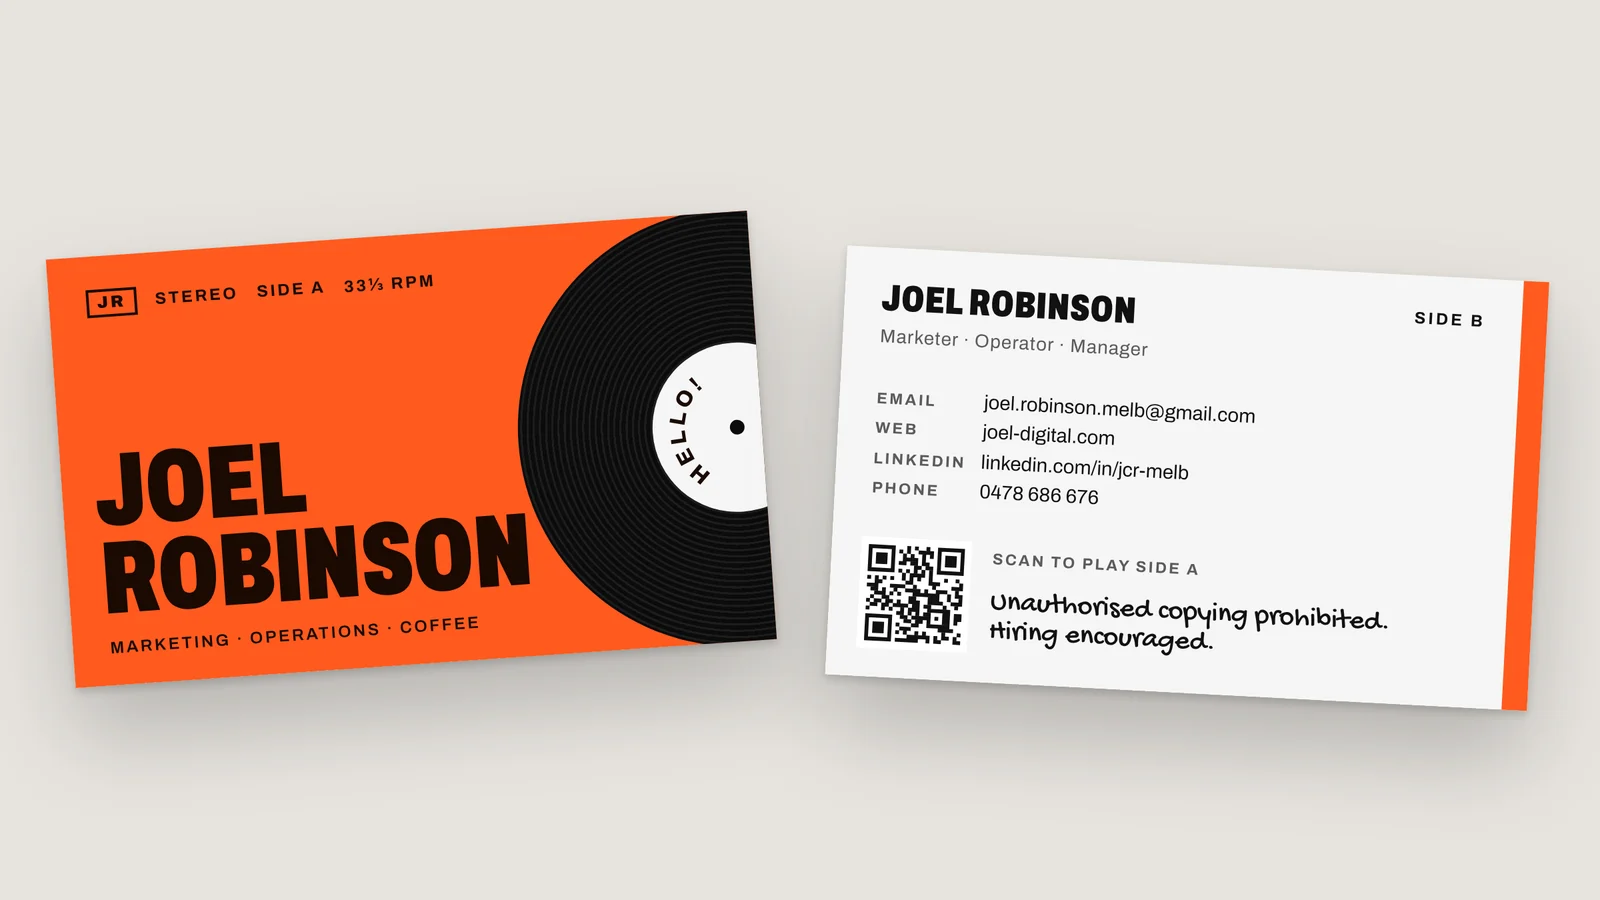
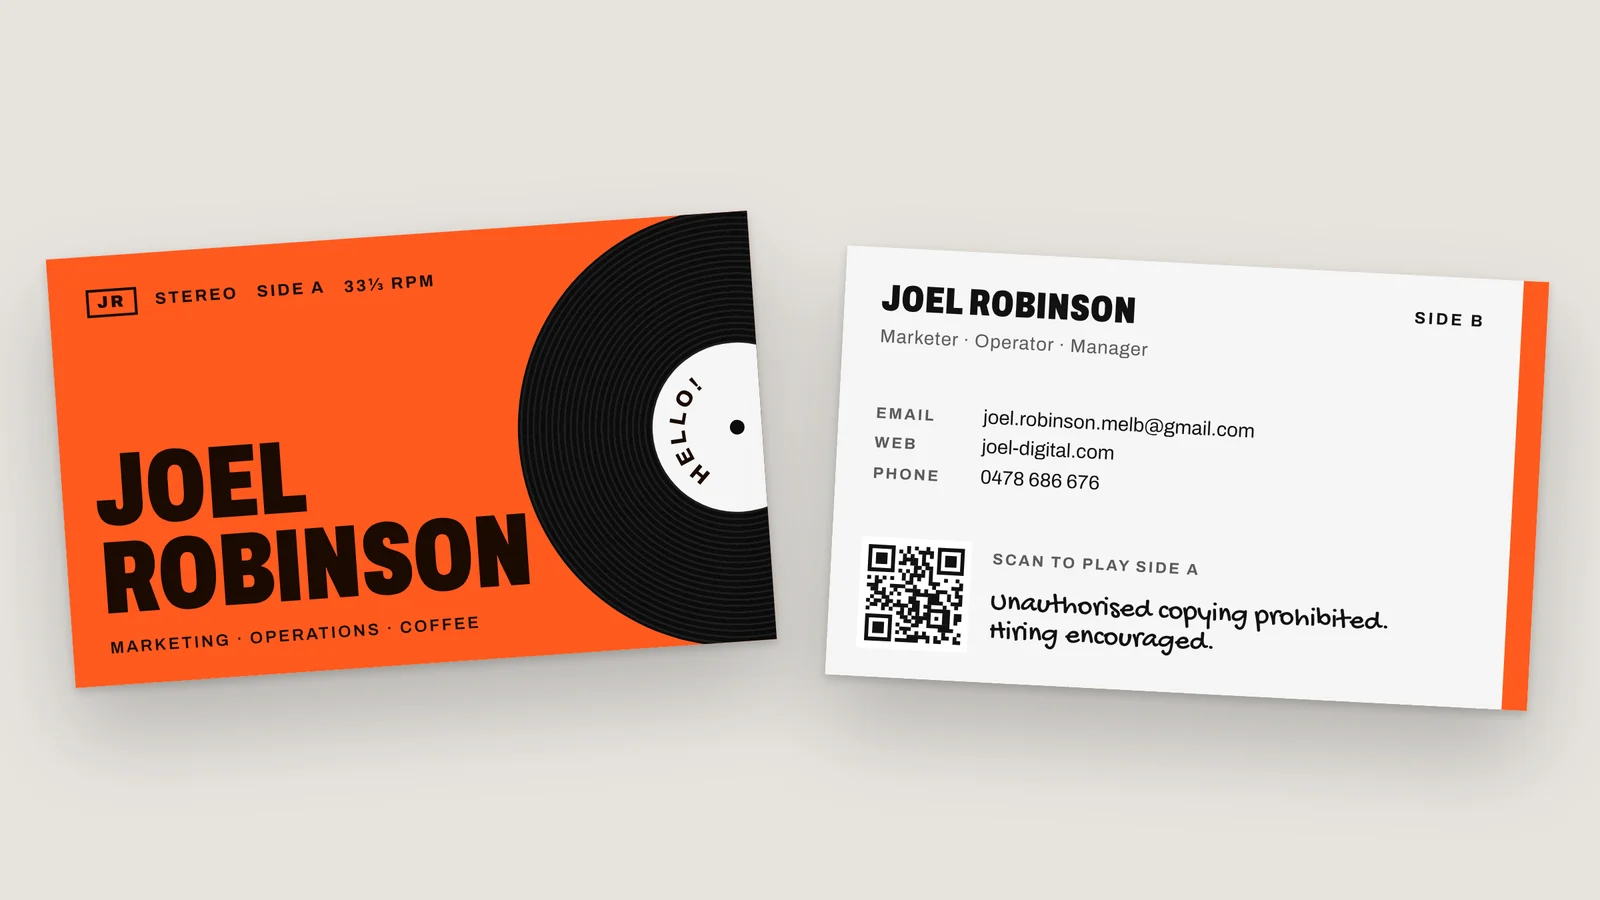
Business card: remove LinkedIn from the back
Claude-Session: https://claude.ai/code/session_01Vb6tQfnCk3mJvFcTo4MD6P

Changed region(s): [[0.5312, 0.4356, 0.7812, 0.56]]

diff --git a/index.html b/index.html
@@ -403,7 +403,7 @@
           <p>I designed both sides at true print size, 90 × 55 mm, using this site's orange, its condensed Archivo type and its handwritten voice.</p>
           <ul>
             <li><b>Side A</b> is the sleeve: a black record sliding out of an orange cover, its label reading “HELLO!”. My name runs big down the left, with a catalogue line (“JR · Stereo · Side A · 33⅓ RPM”) above and “Marketing · Operations · Coffee” below.</li>
-            <li><b>Side B</b> is the liner notes: my name and role, email, website, LinkedIn and phone, and a QR code captioned “Scan to play side A”. It signs off in handwriting: “Unauthorised copying prohibited. Hiring encouraged.”</li>
+            <li><b>Side B</b> is the liner notes: my name and role, email, website and phone, and a QR code captioned “Scan to play side A”. It signs off in handwriting: “Unauthorised copying prohibited. Hiring encouraged.”</li>
           </ul>
           <h4>The key decisions</h4>
           <ul>
